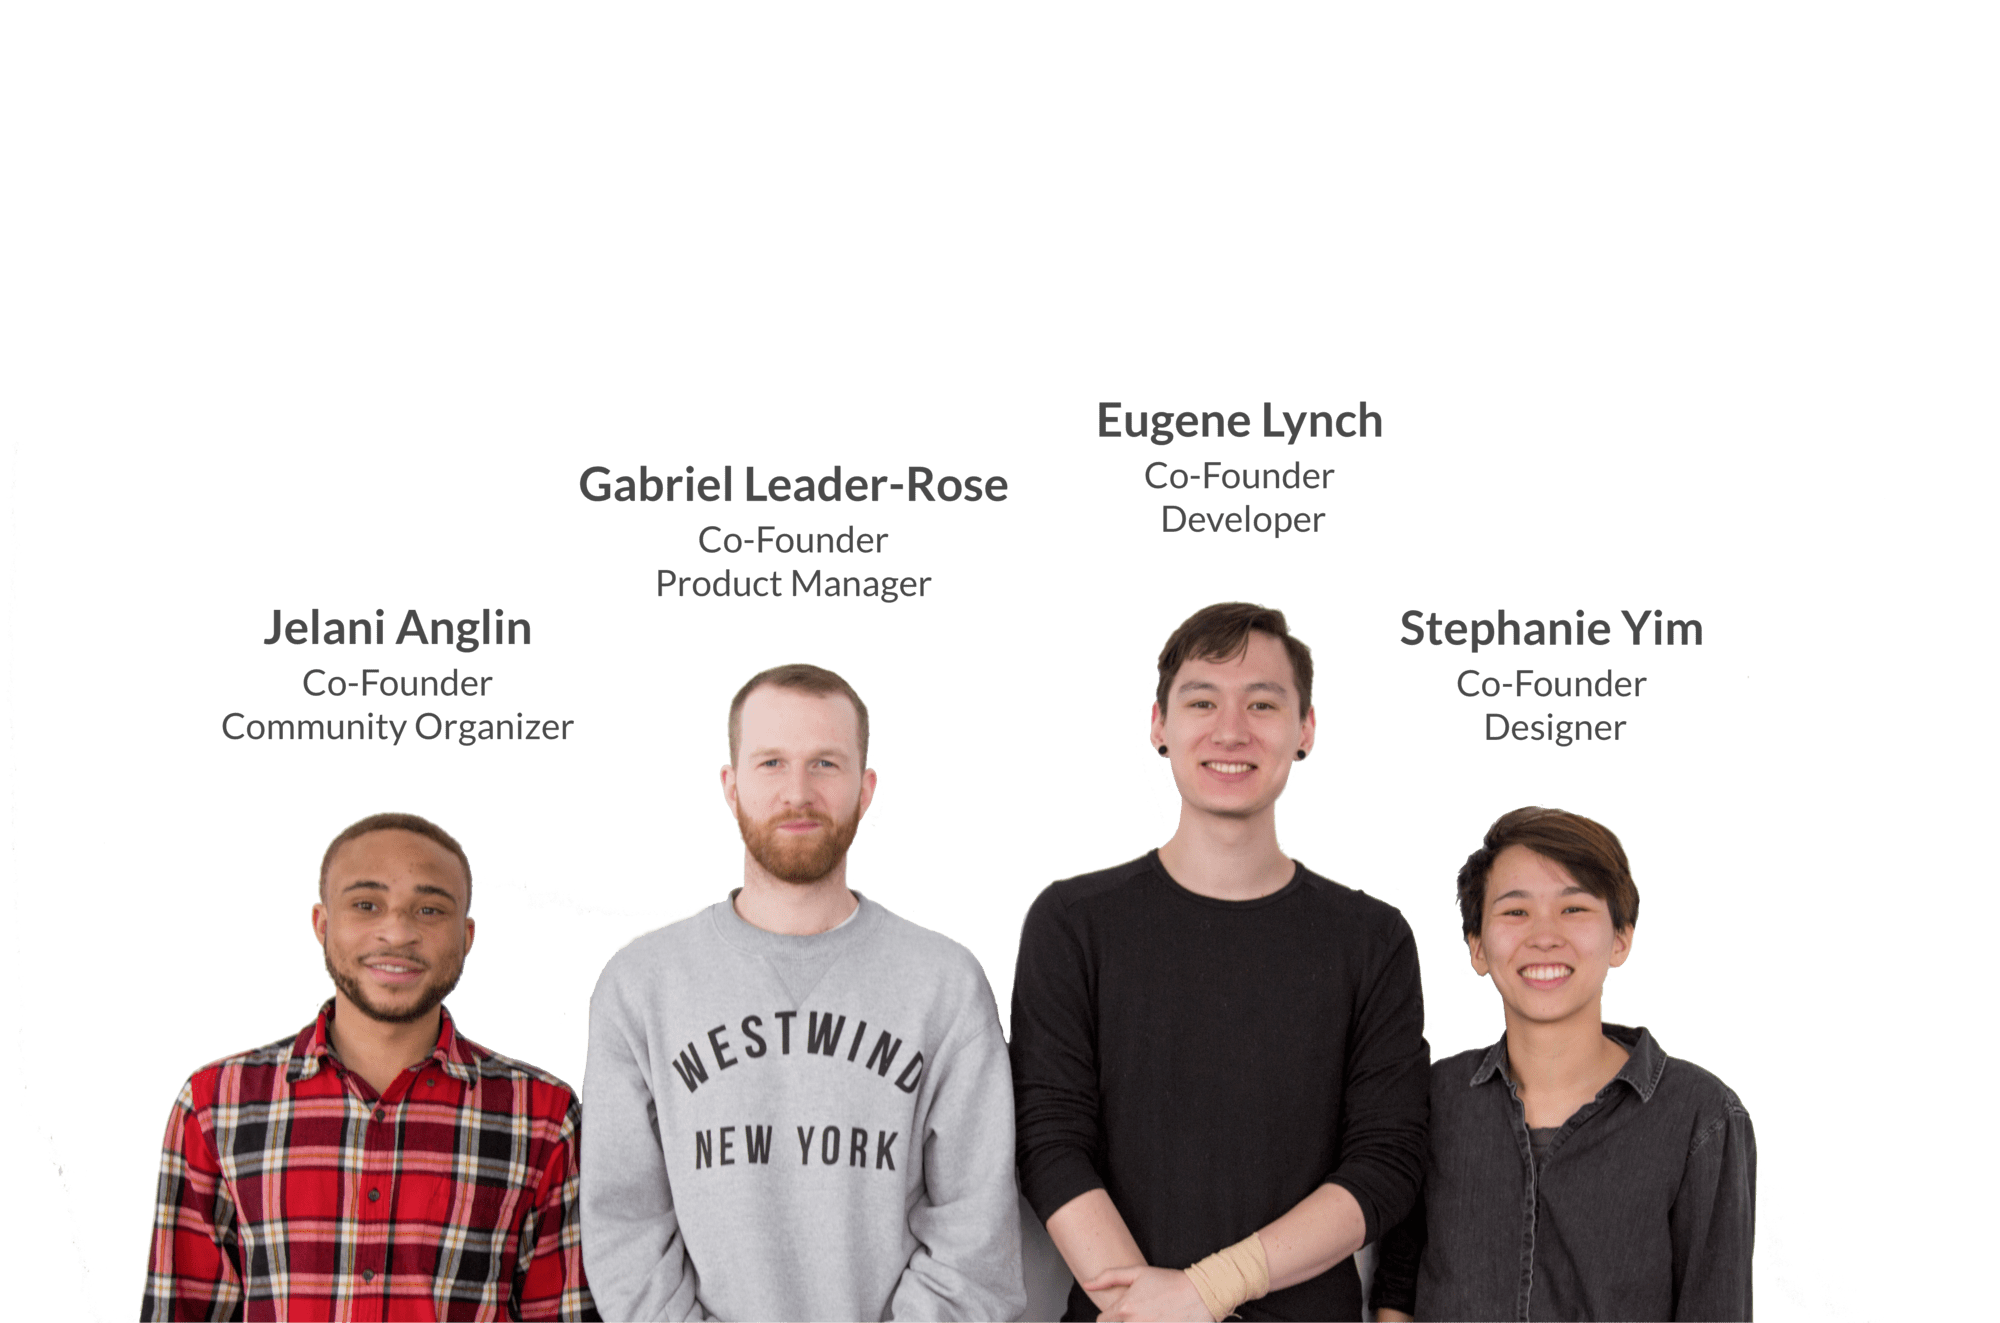
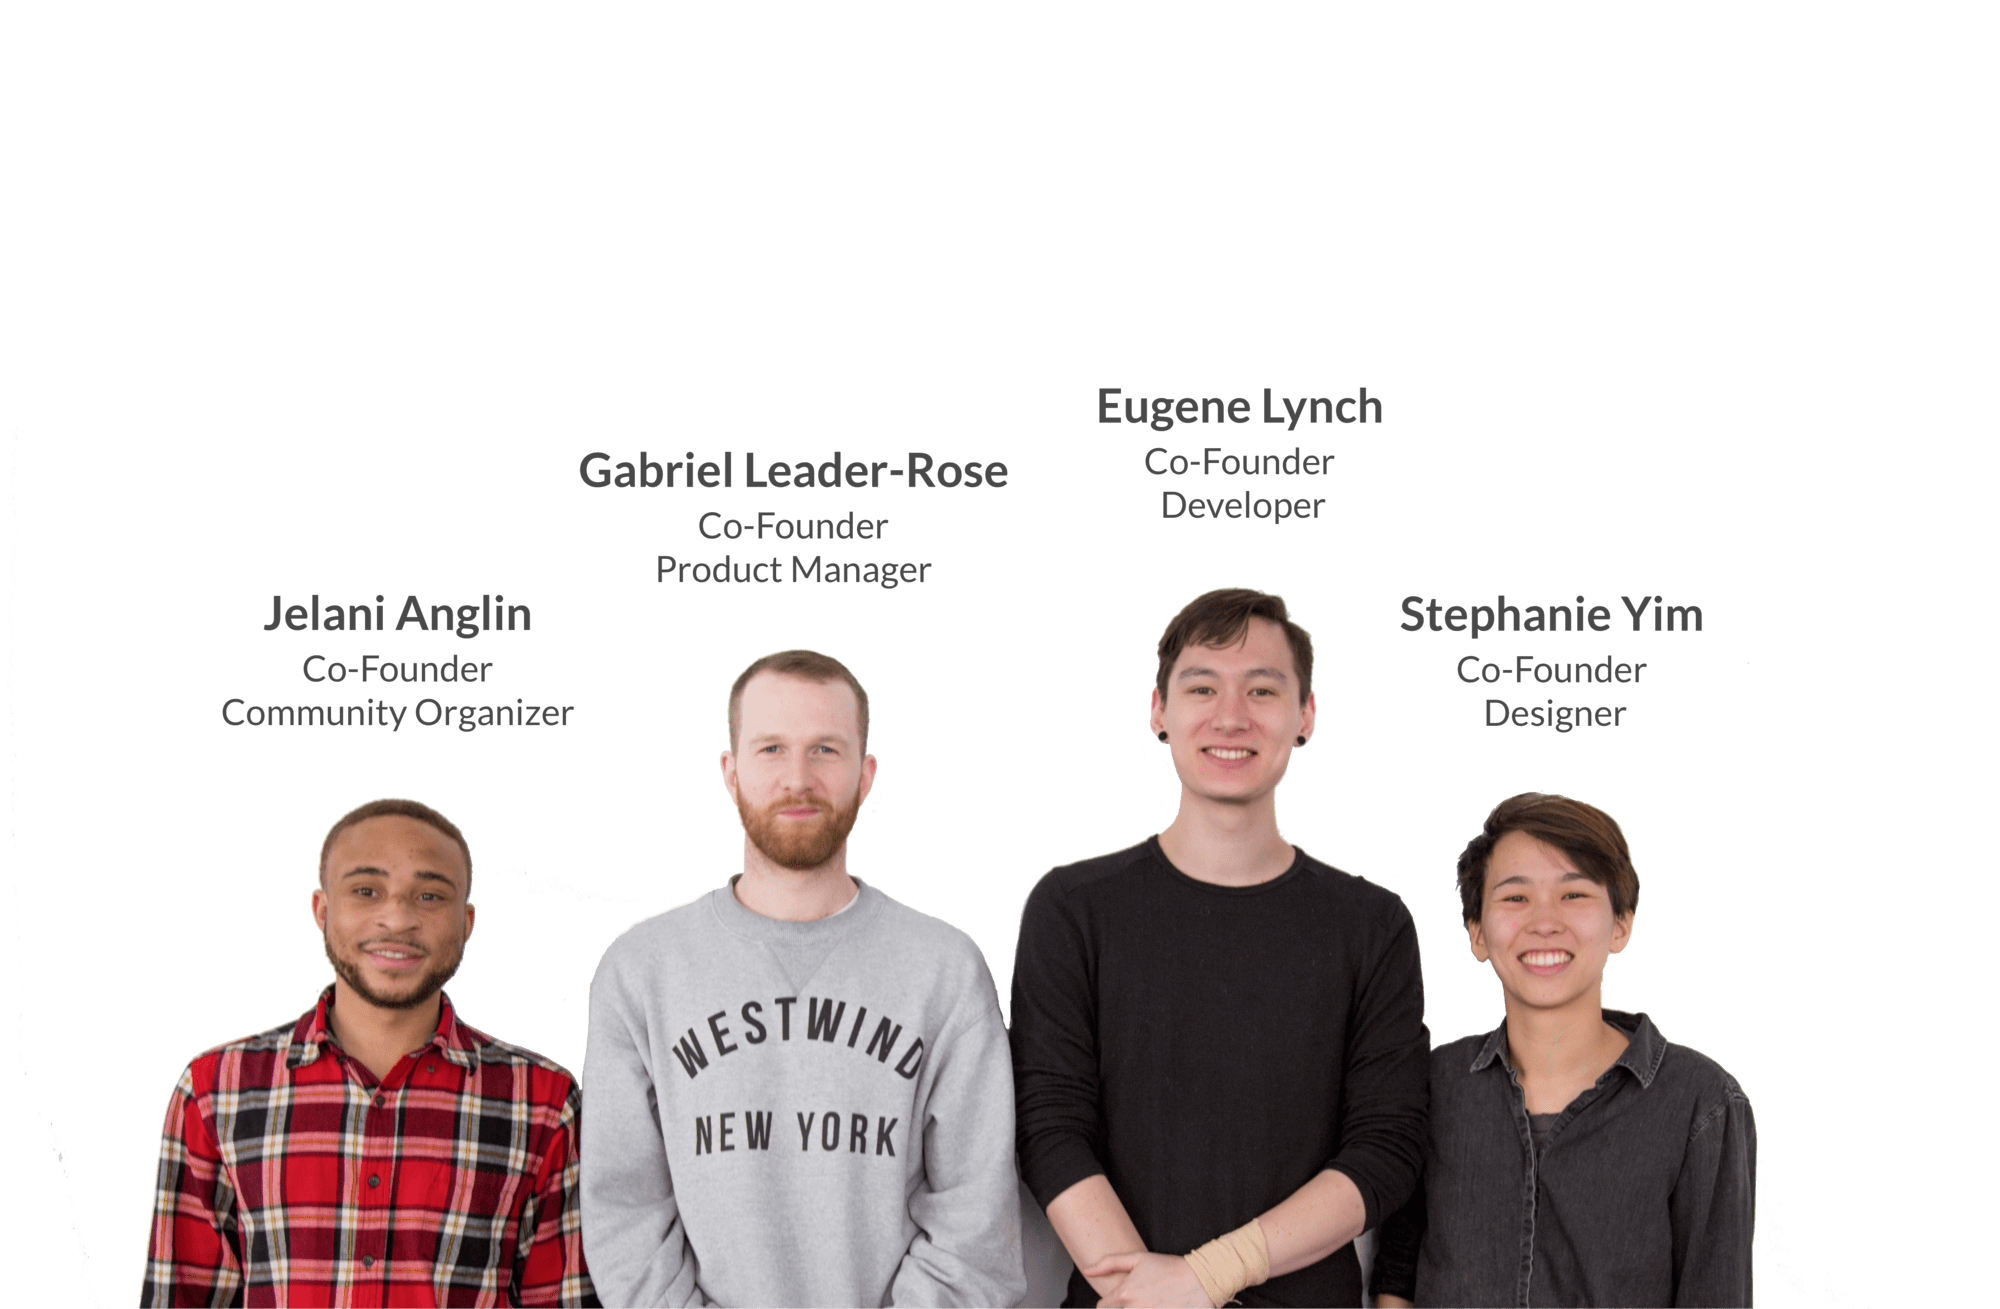
more polish

diff --git a/app/components/about-page/index.css b/app/components/about-page/index.css
@@ -33,7 +33,6 @@
 .about-page__two-col-panel-subheader {
   font-size: 30px;
   color: #4A4A4A;
-  max-width: 160px;
   text-align: left;
 }
 
@@ -56,7 +55,7 @@
 .about-page__team-photo {
   width: 100%;
   position: relative;
-  top: 5px;
+  top: 3px;
 }
 
 .about-page__horiz-divider {
